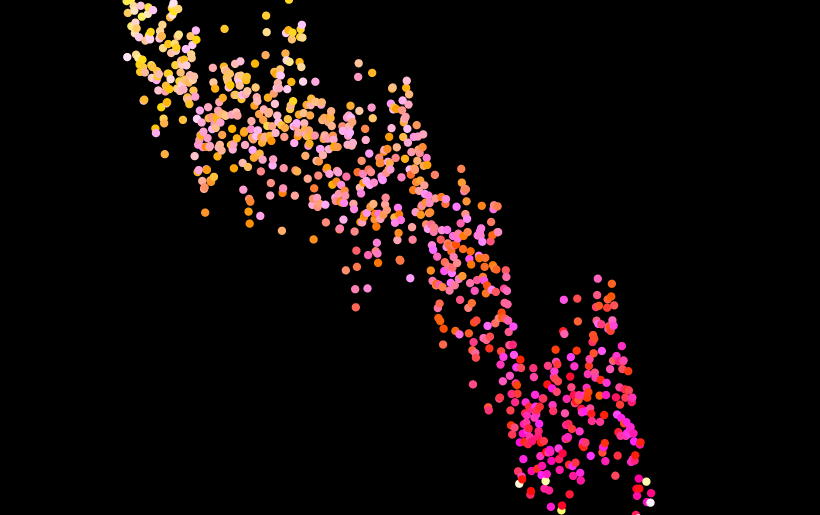
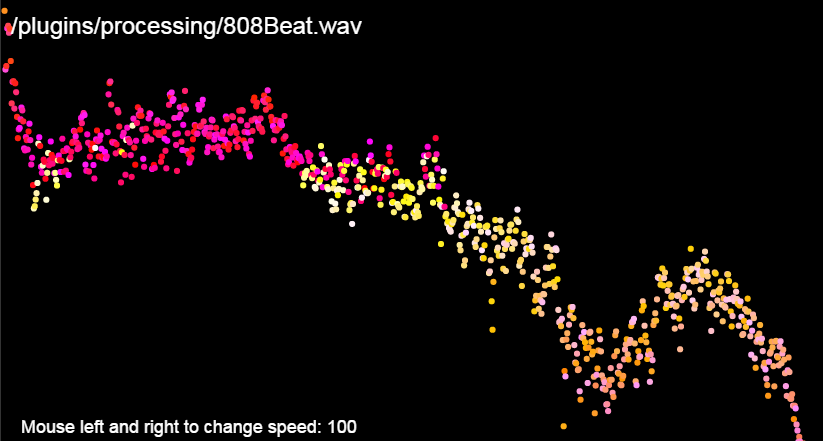
Working on Audio Visualizer

Changed region(s): [[0.0, 0.0, 0.9756, 1.0], [0.0, 0.9433, 0.4573, 1.0]]

diff --git a/public/plugins/processing/AudioVisualizerSketch.js b/public/plugins/processing/AudioVisualizerSketch.js
@@ -6,12 +6,13 @@ var xPos;
 var currentTrack;
 var isPlaying;
 var divWidth = 800;
-var divHeight = 600
+var divHeight = 400
 var sizeRatio = 1;
-var minPow = 0;
-var maxPow = 0;
-var minSpec = 0;
-var maxSpec = -100;
+var maxSpec = 0;
+var specRatio = 1;
+var x = 0;
+var y = 0;
+var diam = 0;
 
 void setup()
 {
@@ -25,9 +26,6 @@ void setup()
     tracks = new Array
     (
         "/plugins/processing/808Beat.wav",
-        "/plugins/processing/atmos1.wav",
-        "/plugins/processing/FunkGuitar.wav",
-        "/plugins/processing/HardAcid.wav",
         "/plugins/processing/IAgainstI.wav",
         "/plugins/processing/LondonCalling.wav",
         "/plugins/processing/TimeOfTheSeason.wav",
@@ -44,80 +42,84 @@ void setup()
 
 void draw()
 {
+    /*
+     pow range: (-0.76 to 0.25)
+     spec[i] range: (-268 to -21)
+     spec.length = 1024
+     */
+
+    //Tailor visible spectrum to screen size
+    var widthRatio = width / 900;//based on spec.length = 1024
+    var heightRatio = height / 50;//based on max abs(spec[i]) = 268
+
+    var spectrum = [1024];
+    var power = 0;
     var ratio = 1;
     var pow;
     background(0);
 
+    //Check if music is playing, then analyze and store data points in variables for drawing
     if (isPlaying)
     {
         playerBeat.setAnalysing(true);
         playerBeat.setLooping(true);
         playerBeat.play();
 
-        /* Visualization */
-        pow = playerBeat.getAveragePower();
-        spec = playerBeat.getPowerSpectrum();
+        if(playerBeat.isPlaying){
 
-        /*
-        pow range: (-0.76 to 0.25)
+            /* Analyze */
+            pow = playerBeat.getAveragePower();
+            spec = playerBeat.getPowerSpectrum();
 
-        spec[i] range: (-268 to -21)
-
-        spec.length = 1024
-
-         */
-
-        //Tailor visible spectrum to screen size
-        var widthRatio = width / 1024;//based on spec.length = 1024
-        var heightRatio = height / 135;//based on max abs(spec[i]) = 268
-
-        strokeWeight(6 * sizeRatio);
-
-        if (spec != null) {
-            for (var i = 0; i < spec.length; i++) {
-
-                //Draw an ellipse(x, y, width, height) - diameter based on power
-                ellipse(i * widthRatio, abs(spec[i]) * heightRatio, (pow * sizeRatio) + 0, (pow * sizeRatio) + 0);
-
-                //Color based on spectrum
-                stroke(1000 * spec[i]);
-
-                if(pow > maxPow){
-                    maxPow = pow;
-                }
-                if(pow < minPow){
-                    minPow = pow;
-                }
-                if(spec[i] > maxSpec){
-                    maxSpec = spec[i];
-                }
-                if(spec[i] < minSpec){
-                    minSpec = spec[i];
-                }
+            if(spec != null){
+                spectrum = spec;
             }
-        }
 
-        /* Beat speed - lower 1/6 */
-        if (mouseY > height * (5/6))
-        {
-            ratio =  mouseX /  width;
-            ratio *= 2;
-            playerBeat.speed(ratio);
+            power = abs(pow);
         }
-
-        //Label - Display speed
-        textSize(18 * sizeRatio);
-        text("Mouse left and right to change speed: " + round(ratio * 100), 20 , height - 10);
     }
+
+    //Actual drawing
+    strokeWeight(6 * sizeRatio);
+
+    //Map spectrum array
+    for (var i = 0; i < spectrum.length; i++) {
+
+        x = i * widthRatio;
+        y = (abs(spectrum[i]) * heightRatio) - (350 * sizeRatio);
+        diam = (power * sizeRatio) + 0;
+
+        //Draw an ellipse(x, y, width, height) - diameter based on power
+        ellipse(x, y, diam, diam);
+
+        //Color based on spectrum
+        stroke(1000 * spectrum[i]);
+    }
+
+
+    /* Beat speed - lower 1/6 */
+    if (mouseY > height * (5/6))
+    {
+        ratio =  mouseX /  width;
+        ratio *= 2;
+        playerBeat.speed(ratio);
+    }
+
+    //Label - Display speed
+    textSize(18 * sizeRatio);
+    text("Mouse left and right to change speed: " + round(ratio * 100), 20 * sizeRatio , (height - 10) * sizeRatio);
 
     //Label - Display name of current track
     textSize(24 * sizeRatio);
     text(tracks[currentTrack], 10 * sizeRatio, 36 * sizeRatio);
+    //text("power: " + power, 10 * sizeRatio, 70 * sizeRatio);
+    //text("spec.length: " + spectrum.length, 10 * sizeRatio, 100 * sizeRatio);
     //text("width: " + width + " height: " + height, 10 * sizeRatio, 70 * sizeRatio);
     //text("minPow:: " + minPow + " maxPow: " + maxPow, 10 * sizeRatio, 100 * sizeRatio);
     //text("minSpec: " + minSpec + " maxSpec: " + maxSpec, 10 * sizeRatio, 130 * sizeRatio);
 }
 
+//Play or pause music
 void togglePlayer()
 {
     isPlaying = !isPlaying;
@@ -131,6 +133,8 @@ void togglePlayer()
     }
 }
 
+
+//Iterate through tracks
 void nextTrack()
 {
     if (currentTrack < tracks.length - 1) {
@@ -151,11 +155,12 @@ void mousePressed()
     //
 }
 
+//Resize sketch to match dimensions of div
 void resizeSketch(int w, int h)
 {
     sizeRatio = w / 800;
     divWidth = 800 * sizeRatio;
-    divHeight = 600 * sizeRatio;
+    divHeight = 400 * sizeRatio;
     size(divWidth, divHeight);
-    scale(800 / divWidth, 600 / divHeight);
+    scale(800 / divWidth, 400 / divHeight);
 }
